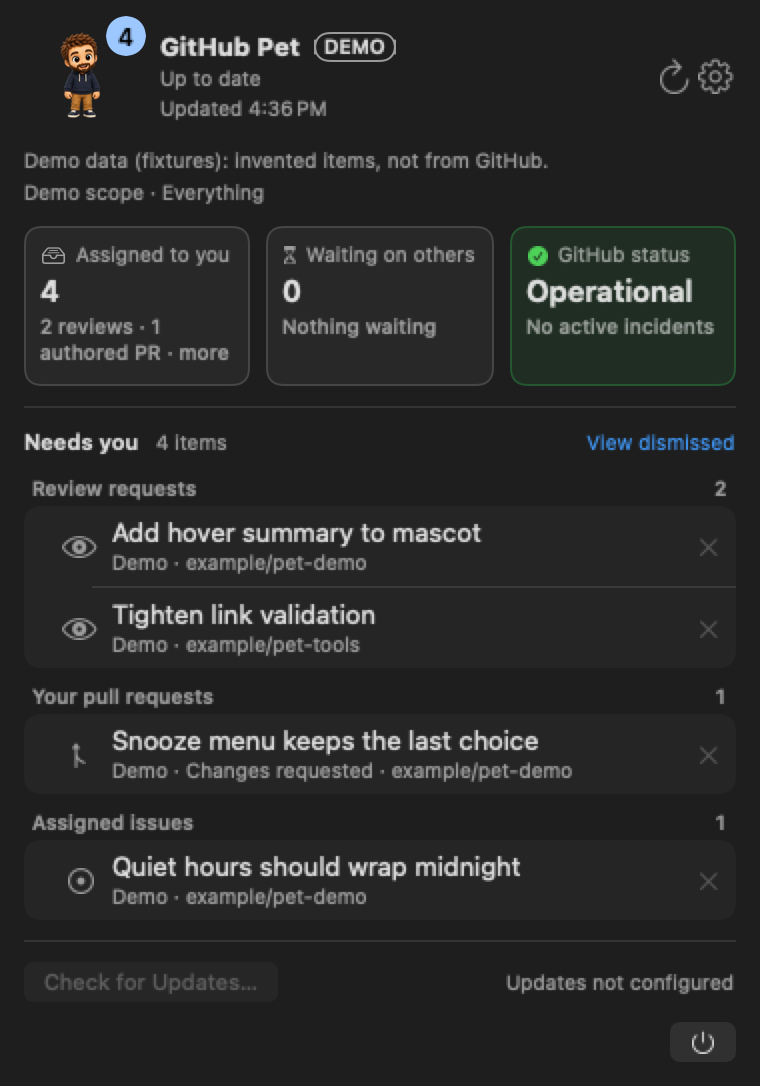
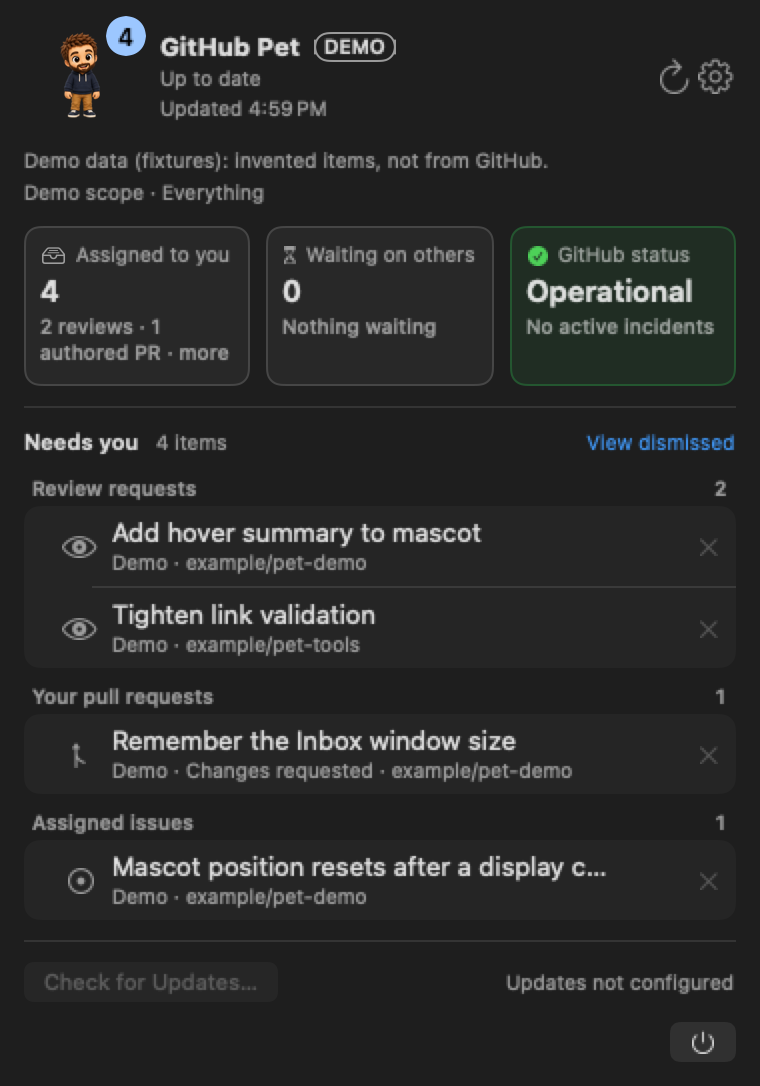
Neutral Demo titles: no fixture advertises a hidden feature
Rename the Demo rows about quiet hours and the snooze menu so Demo mode and
README renders don't mention hidden features; refresh the #113 renders.

Changed region(s): [[0.1513, 0.7901, 0.7868, 0.8204], [0.1513, 0.6685, 0.7263, 0.6989], [0.3632, 0.0912, 0.3934, 0.1215]]

diff --git a/Sources/GitHubPet/SnapshotRenderer+Inbox.swift b/Sources/GitHubPet/SnapshotRenderer+Inbox.swift
@@ -97,9 +97,9 @@ extension SnapshotRenderer {
     static func inbox87Items(_ count: Int, reference: Date = Date(timeIntervalSince1970: 1_793_000_000)) -> [InboxItem] {
         let rows: [(ItemKind, String, Int, String, String?)] = [
             (.reviewRequest, "example/pet-demo", 42, "Add hover summary to mascot", nil),
-            (.authoredPullRequest, "example/pet-demo", 51, "Snooze menu keeps the last choice", "Changes requested"),
+            (.authoredPullRequest, "example/pet-demo", 51, "Remember the Inbox window size", "Changes requested"),
             (.reviewRequest, "example/pet-tools", 7, "Tighten link validation", nil),
-            (.assignedIssue, "example/pet-demo", 18, "Quiet hours should wrap midnight", nil),
+            (.assignedIssue, "example/pet-demo", 18, "Mascot position resets after a display change", nil),
             (.workflowFailure, "example/pet-demo", 88, "CI · main · build-and-test", nil),
             (.deploymentApproval, "example/pet-site", 12, "Deploy to production", nil),
             (.entitlement, "example/pet-access", 3, "Request write access for a release branch", nil),

diff --git a/Sources/GitHubPetCore/FixtureSimulator.swift b/Sources/GitHubPetCore/FixtureSimulator.swift
@@ -74,7 +74,7 @@ public final class FixtureSimulator {
         return [
             item(.reviewRequest, "example/pet-demo", 42, "Add hover summary to mascot", 1),
             item(.reviewRequest, "example/pet-tools", 7, "Tighten link validation", 5),
-            item(.assignedIssue, "example/pet-demo", 18, "Quiet hours should wrap midnight", 26),
+            item(.assignedIssue, "example/pet-demo", 18, "Mascot position resets after a display change", 26),
         ]
     }
 }
